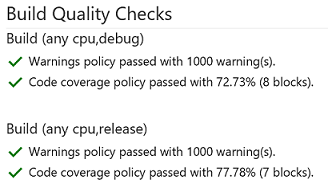
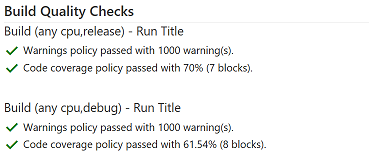
Update docs to v.2.4.0

diff --git a/BuildQualityChecks/en-US/WarningsPolicy.md b/BuildQualityChecks/en-US/WarningsPolicy.md
@@ -32,10 +32,33 @@ if the number of warnings exceeds a specific value or increases between builds.
 - **Force Fewer Warnings:** Check this option if you want the current build to always have fewer warnings than the previous one. This
   option is only visible if *Fail Build On* is set to `Previous Value`.
 
+- **Warning Filters:** In some cases, you may want to analyze only specific types of warnings (e.g., unreachable code warnings, static code
+  analysis warnings). *Warning Filters* allow you to do just that. Specify a list of regular expressions (one per line) that only match
+  the types of warnings you are looking for and the policy will evaluate only those warnings. The policy result will show the total number
+  of warnings as well as the number of filtered warnings. Keep in mind that *Warning Filters* analyze the log file of build tasks and does
+  a simple text match. Thus, you need to make sure that your regular expressions match each warning only once.
+  
+  **Examples:**
+  - Unused variables (.NET): `/##\[warning\].+CS0219:/i`
+  - Static code analysis (.NET): `/##\[warning\].+CA.+:/i`
+  - StyleCop warnings (MSBuild and Roslyn): `/##\[warning\].+SA.+:/i`
+
+  *Warning Filters* can also be used to count warnings if a build task does not log warnings as build issues, as long as the task logs
+  the number of warnings to its log file. To do so, specify a warning filter that contains exactly **one** matching group that captures
+  the number of warnings. The captured number will be added to the total warning count as well was the filtered warning count.
+
+  **Example (based on _StyleCop Runner_ task:**
+  - Log output: `StyleCop found [28448] violations warnings across [82] projects`
+  - Filter value: `/\[(\d+)\]\s+violations/i`
+
+  **Note:** Regular expressions must use the JavaScript RegExp syntax. Click [here](http://www.regular-expressions.info/javascript.html)
+  for more information.
+
 - **Task Filters:** Since the build system can run all kinds of tasks during the build process and any of these tasks can create
   warnings, the *Warnings Policy* needs to know, which tasks it should look at and which to ignore. *Task Filters* takes a list of
   regular expressions (one per line). The policy will only look at build tasks that match one of the task filters. The matching is done by
-  looking at the timeline name of each task, which is displayed below the task name in the build definition. The default value
+  looking at the timeline name of each task, i.e., the name displayed in the list on the left hand side of the build summary view. If you
+  change the display name of a task in your build definition, make sure to update the task filters appropriately. The default value
   `/^(((android|xcode|gradlew)\\s+)?build|ant|maven|cmake|gulp)/i` matches most of the standard build tasks in Team Foundation Server/Visual
   Studio Team Services.
 

diff --git a/BuildQualityChecks/en-US/overview.md b/BuildQualityChecks/en-US/overview.md
@@ -75,6 +75,11 @@ last build that ran against the same branch as the current build. This behavior 
   **Note:** Whenever you choose a different baseline branch, make sure that the [retention policy](https://www.visualstudio.com/en-us/docs/build/concepts/policies/retention)
   is configured to keep at least one successful build for your baseline branch! 
 
+#### Reporting Options
+If you are using multiple *Build Quality Checks* tasks within the same build, you may use the **Run Title** parameter to specify a title that
+is associated with a specific instance of the task. This will help distinguishing between the task results in the summary section. The run
+title is added to the subsection header in the summary in the format <Build Job Name> - <Run Title>.
+
 ### Common Usage Scenarios
 
 - [Pull Requests and TFVC Topic Branches](https://github.com/almtcger/VstsExtensions/blob/master/BuildQualityChecks/en-US/PullRequests.md)

diff --git a/BuildQualityChecks/en-US/changeNotes.md b/BuildQualityChecks/en-US/changeNotes.md
@@ -2,6 +2,11 @@
 
 # Build Quality Checks - Change Notes
 
+#### 2.4.0
+- Added support for run titles to distinguish between multiple task runs in the same build.
+- Added support for warning filters.
+- Added links to documetation to every task parameter.
+
 #### 2.3.1
 - Fixed duplicate logging of warning.
 
